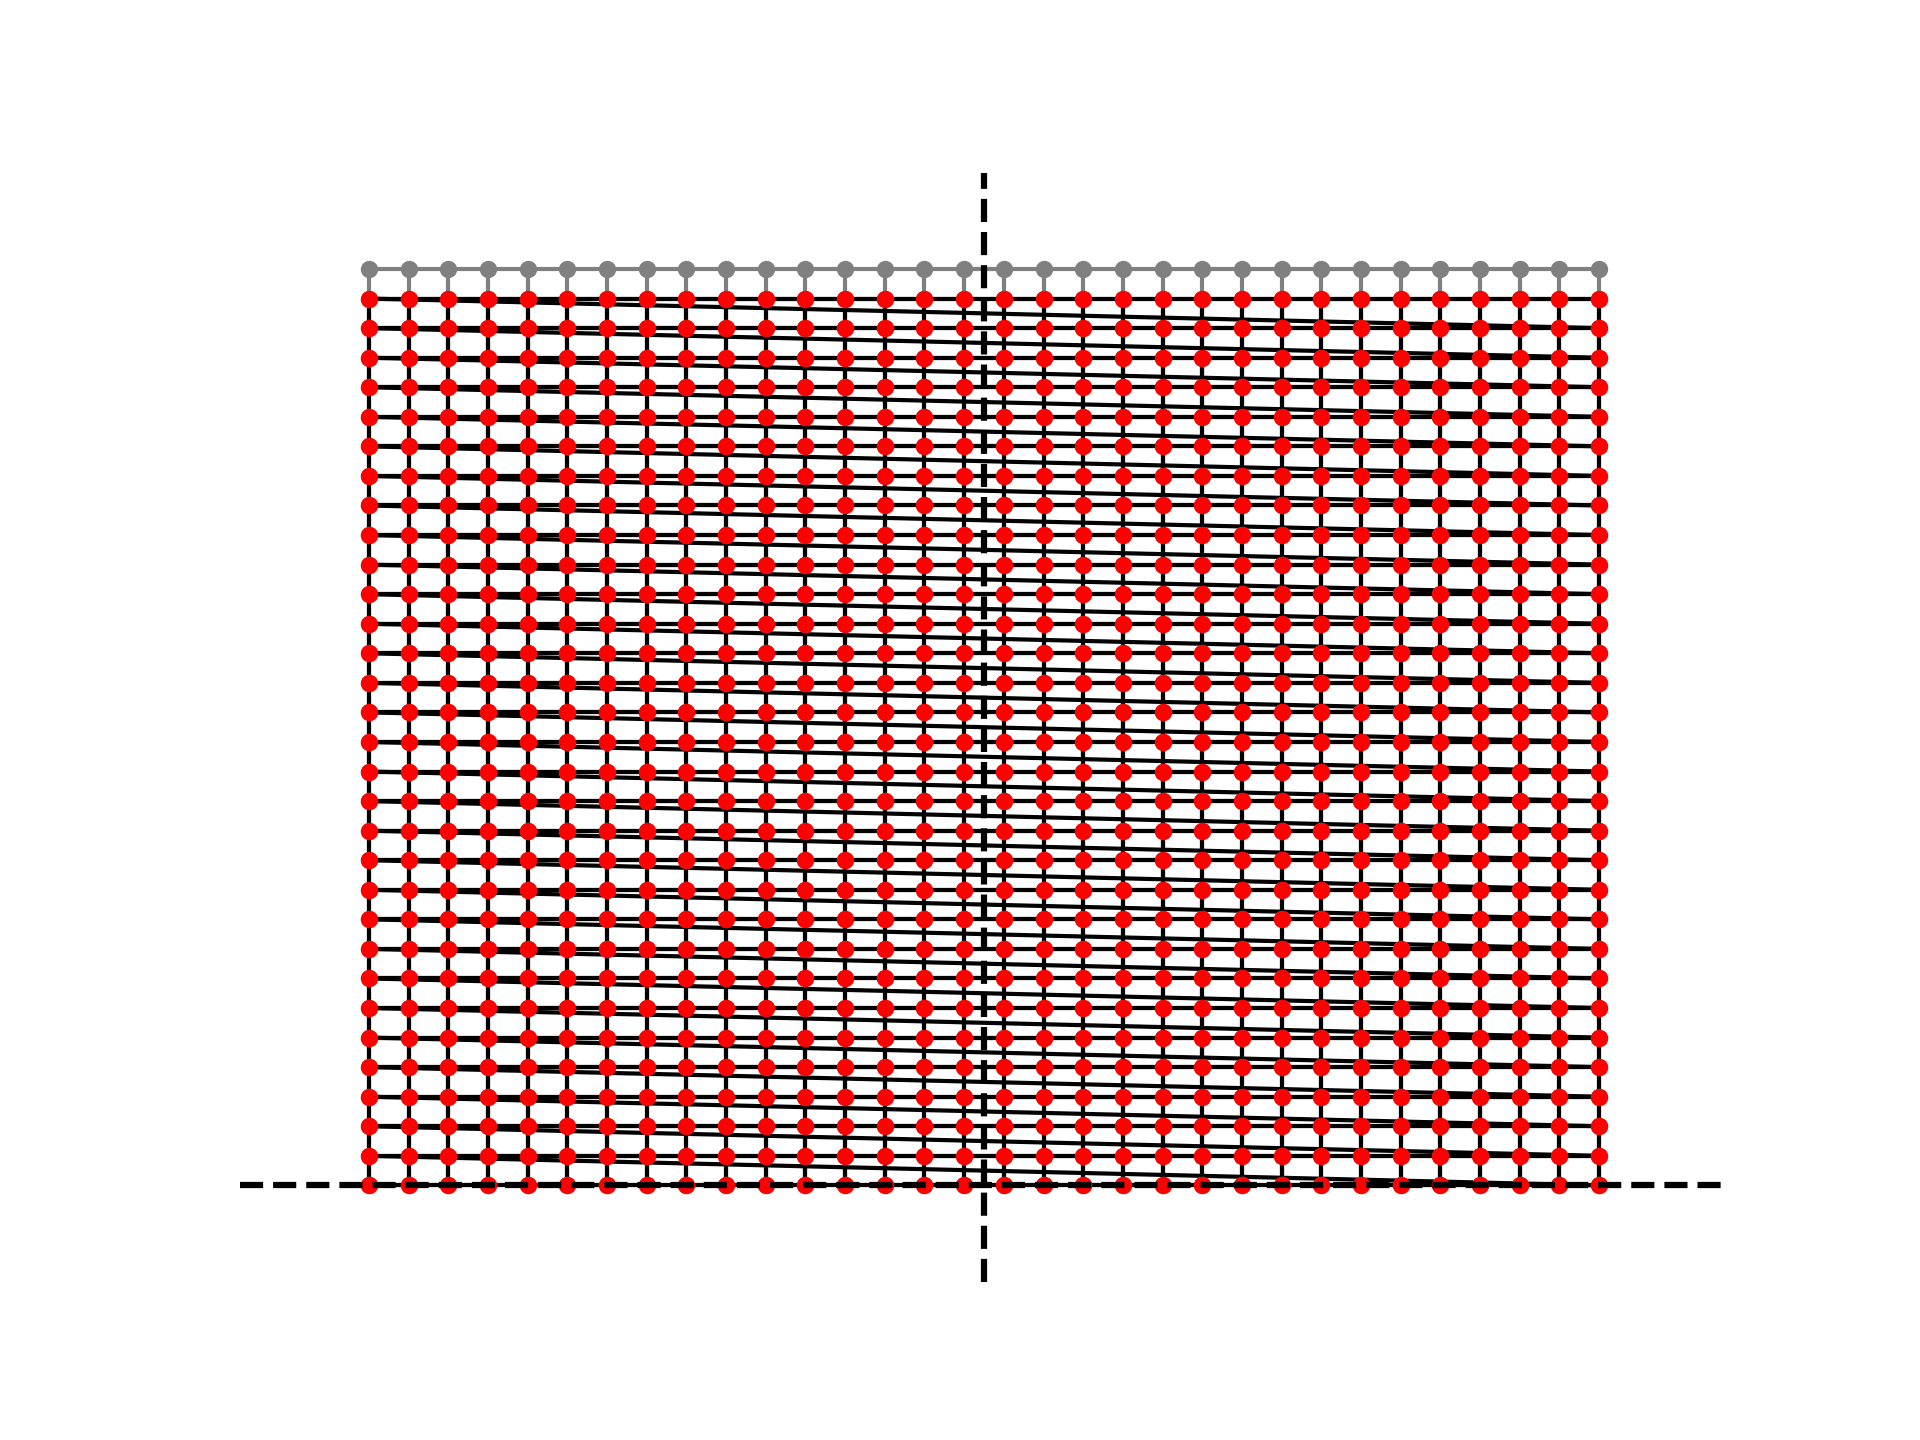
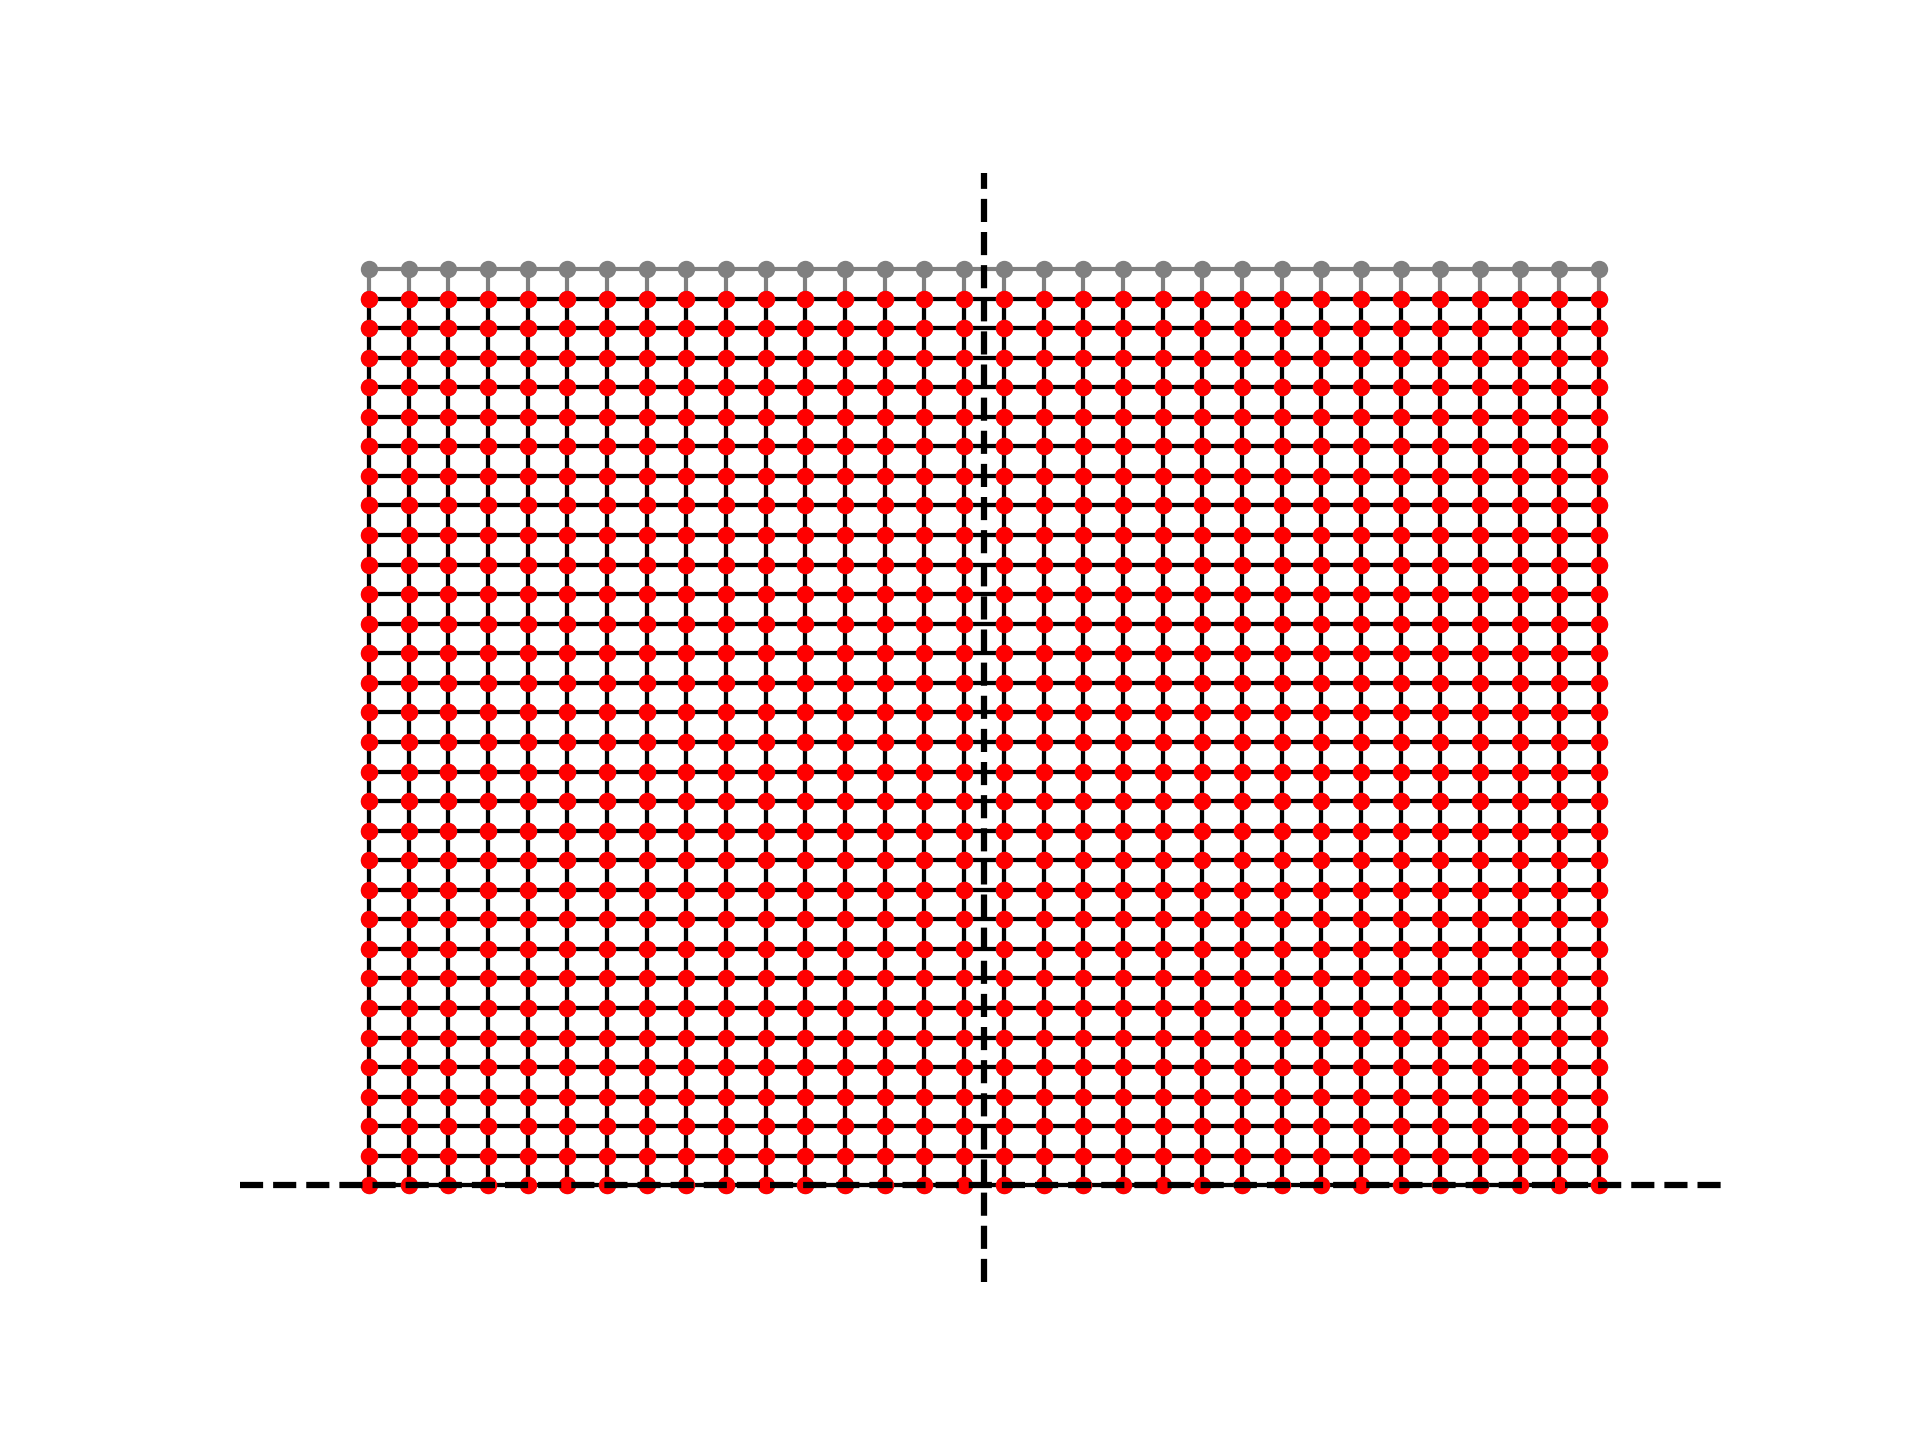
fixed graph error

Changed region(s): [[0.2812, 0.1875, 0.7812, 0.8438]]

diff --git a/sandbox/shape.py b/sandbox/shape.py
@@ -102,19 +102,19 @@ class Shape:
         _ix, ix_ = ix - 1, ix + 1
         _iz, iz_ = iz - 1, iz + 1
 
-        # map invalid indices to torch.nan
+        # map invalid indices to typemax(int)
         if debug:
             print(f"Number of invalid indices")
-            print(torch.argwhere(_ix < 0).len)
-            print(torch.argwhere(_iz < 0).len)
-            print(torch.argwhere(_ix >= self.nx).len)
-            print(torch.argwhere(_iz >= self.nz).len)
+            print(len(torch.argwhere(_ix < 0)))
+            print(len(torch.argwhere(_iz < 0)))
+            print(len(torch.argwhere(ix_ >= self.nx)))
+            print(len(torch.argwhere(iz_ >= self.nz)))
 
         int_max = torch.iinfo(ix.dtype).max
         _ix[torch.argwhere(_ix < 0)] = int_max
         _iz[torch.argwhere(_iz < 0)] = int_max
-        ix_[torch.argwhere(_ix >= self.nx)] = int_max
-        iz_[torch.argwhere(_iz >= self.nz)] = int_max
+        ix_[torch.argwhere(ix_ >= self.nx)] = int_max
+        iz_[torch.argwhere(iz_ >= self.nz)] = int_max
 
         # compute linear indices
         idx_lin = self.linear_index( ix, iz )
@@ -154,8 +154,8 @@ class Shape:
 
         return edges, idx_lin, idx_cart
 
-    def plot_final_graph(self):
-        edges, _, idx_cart = self.compute_final_graph()
+    def plot_final_graph(self, debug=False):
+        edges, _, idx_cart = self.compute_final_graph(debug=debug)
 
         edges    = edges.numpy(force=True)
         idx_cart = idx_cart.numpy(force=True)

diff --git a/sandbox/__main__.py b/sandbox/__main__.py
@@ -400,8 +400,8 @@ if __name__ == "__main__":
     outdir = "./out/"
     resdir = "./res/"
 
-    # view_shape(resdir, "alldomain")
-    # view_shape(resdir, "hourglass")
+    view_shape(resdir, "alldomain")
+    view_shape(resdir, "hourglass")
 
     # train_mlp_sdf(device, outdir, residr, "hourglass")
 
@@ -412,7 +412,7 @@ if __name__ == "__main__":
     # train_cnn(device, outdir, resdir, "hourglass")
 
     # train_gnn_nextstep(device, outdir, resdir, "alldomain")
-    train_gnn_nextstep(device, outdir, resdir, "hourglass")
+    # train_gnn_nextstep(device, outdir, resdir, "hourglass")
 
     # train_cnn_nextstep(device, outdir, resdir, "alldomain", train=False)
     # train_cnn_nextstep(device, outdir, resdir, "hourglass", train=False)
